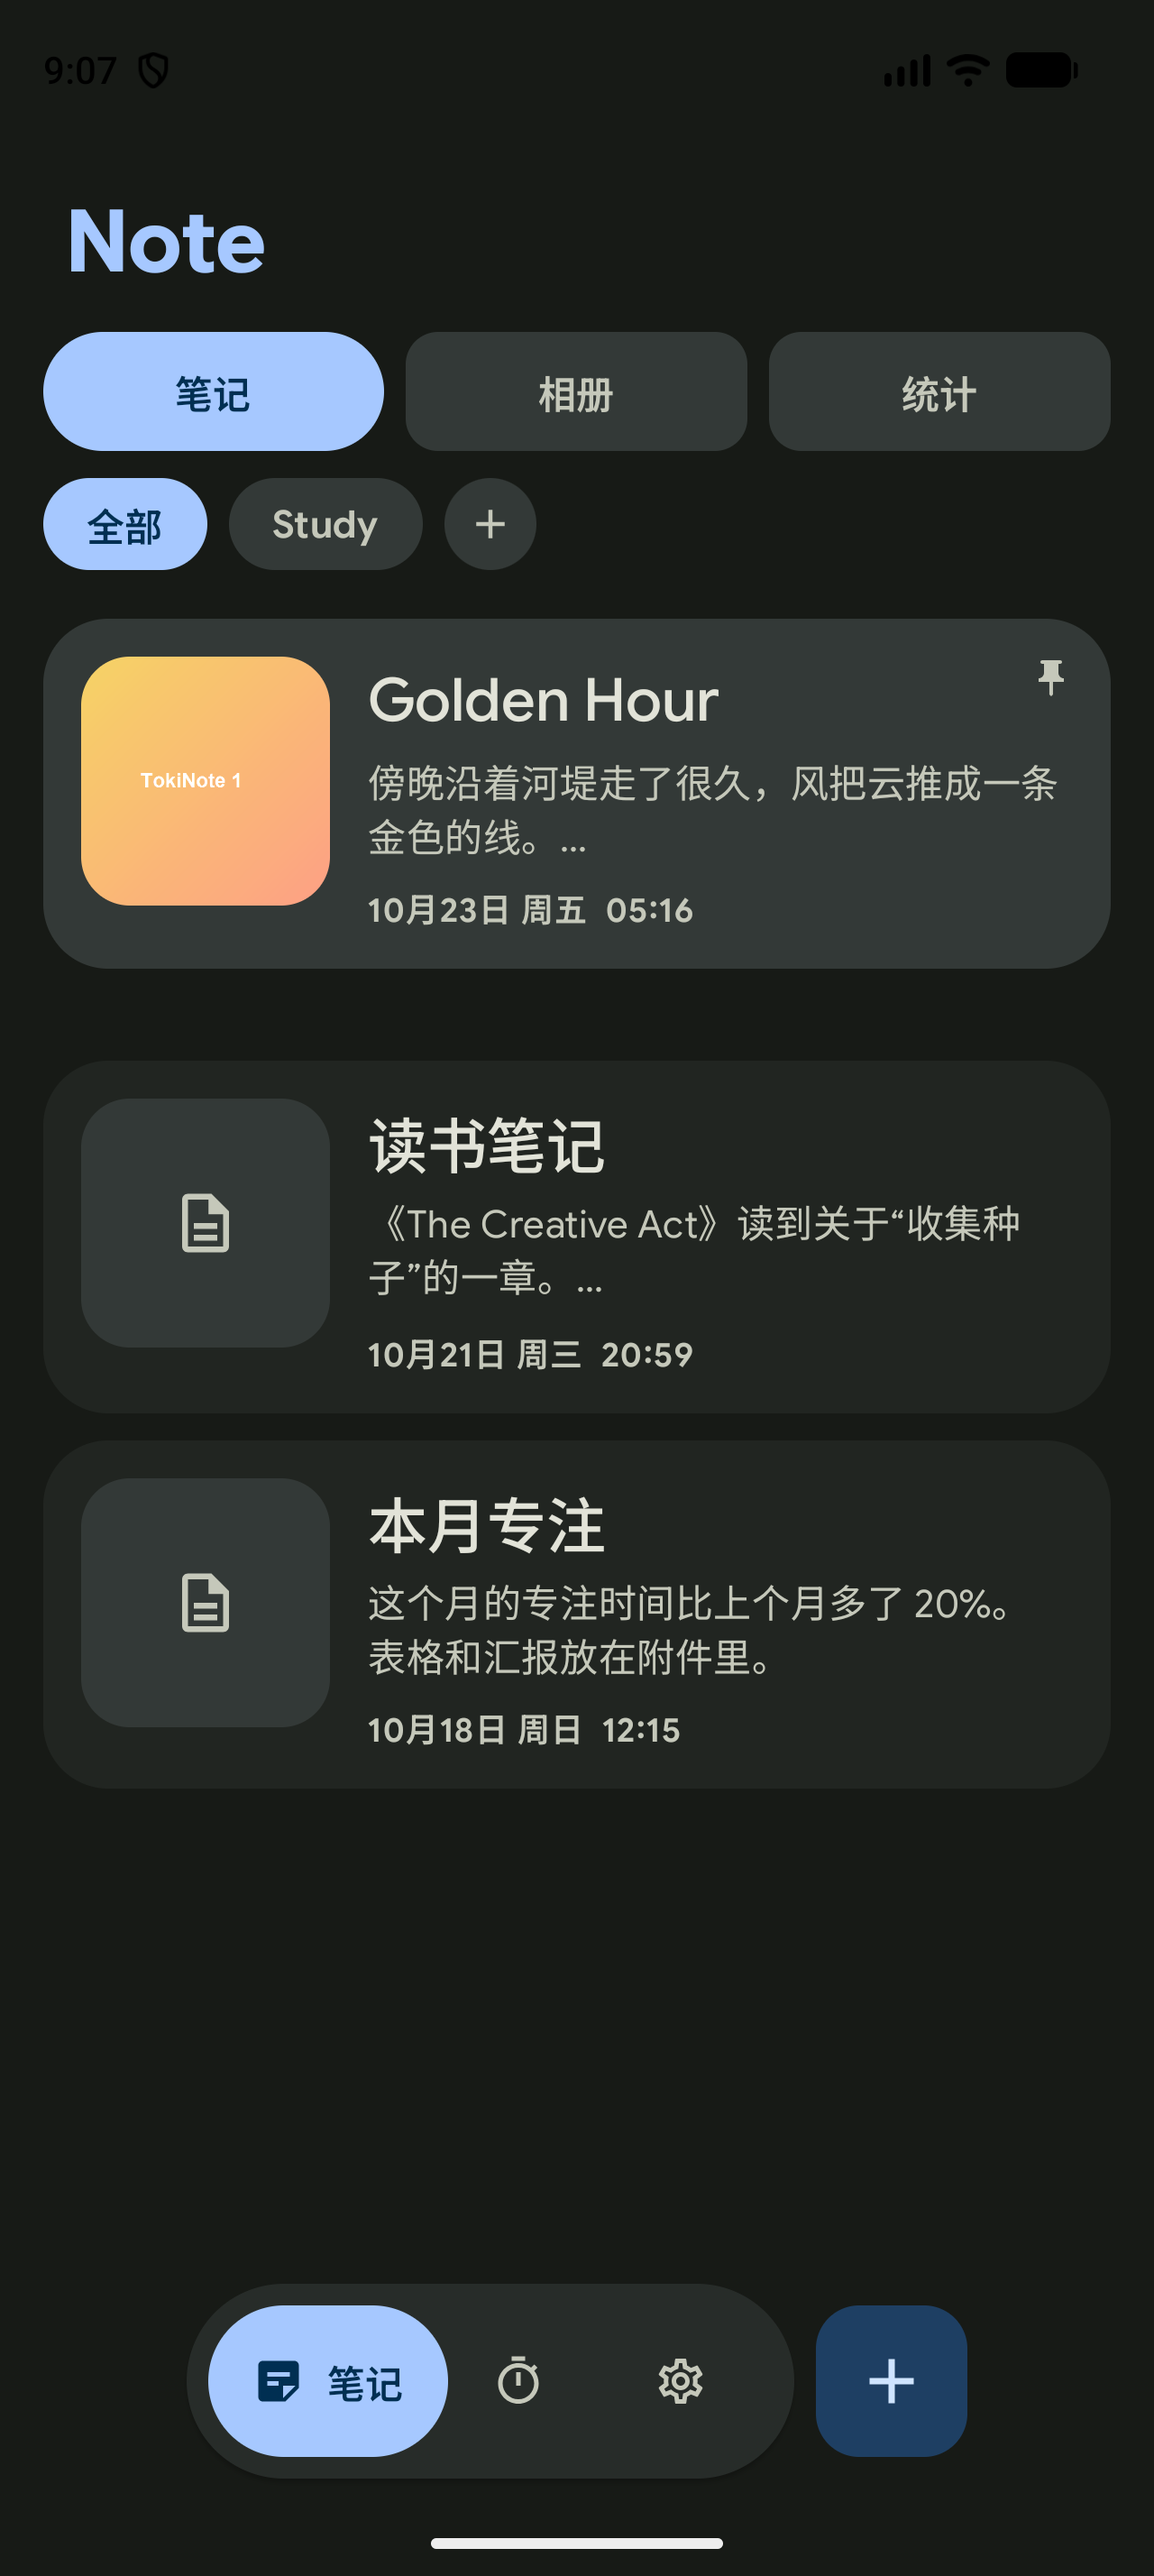
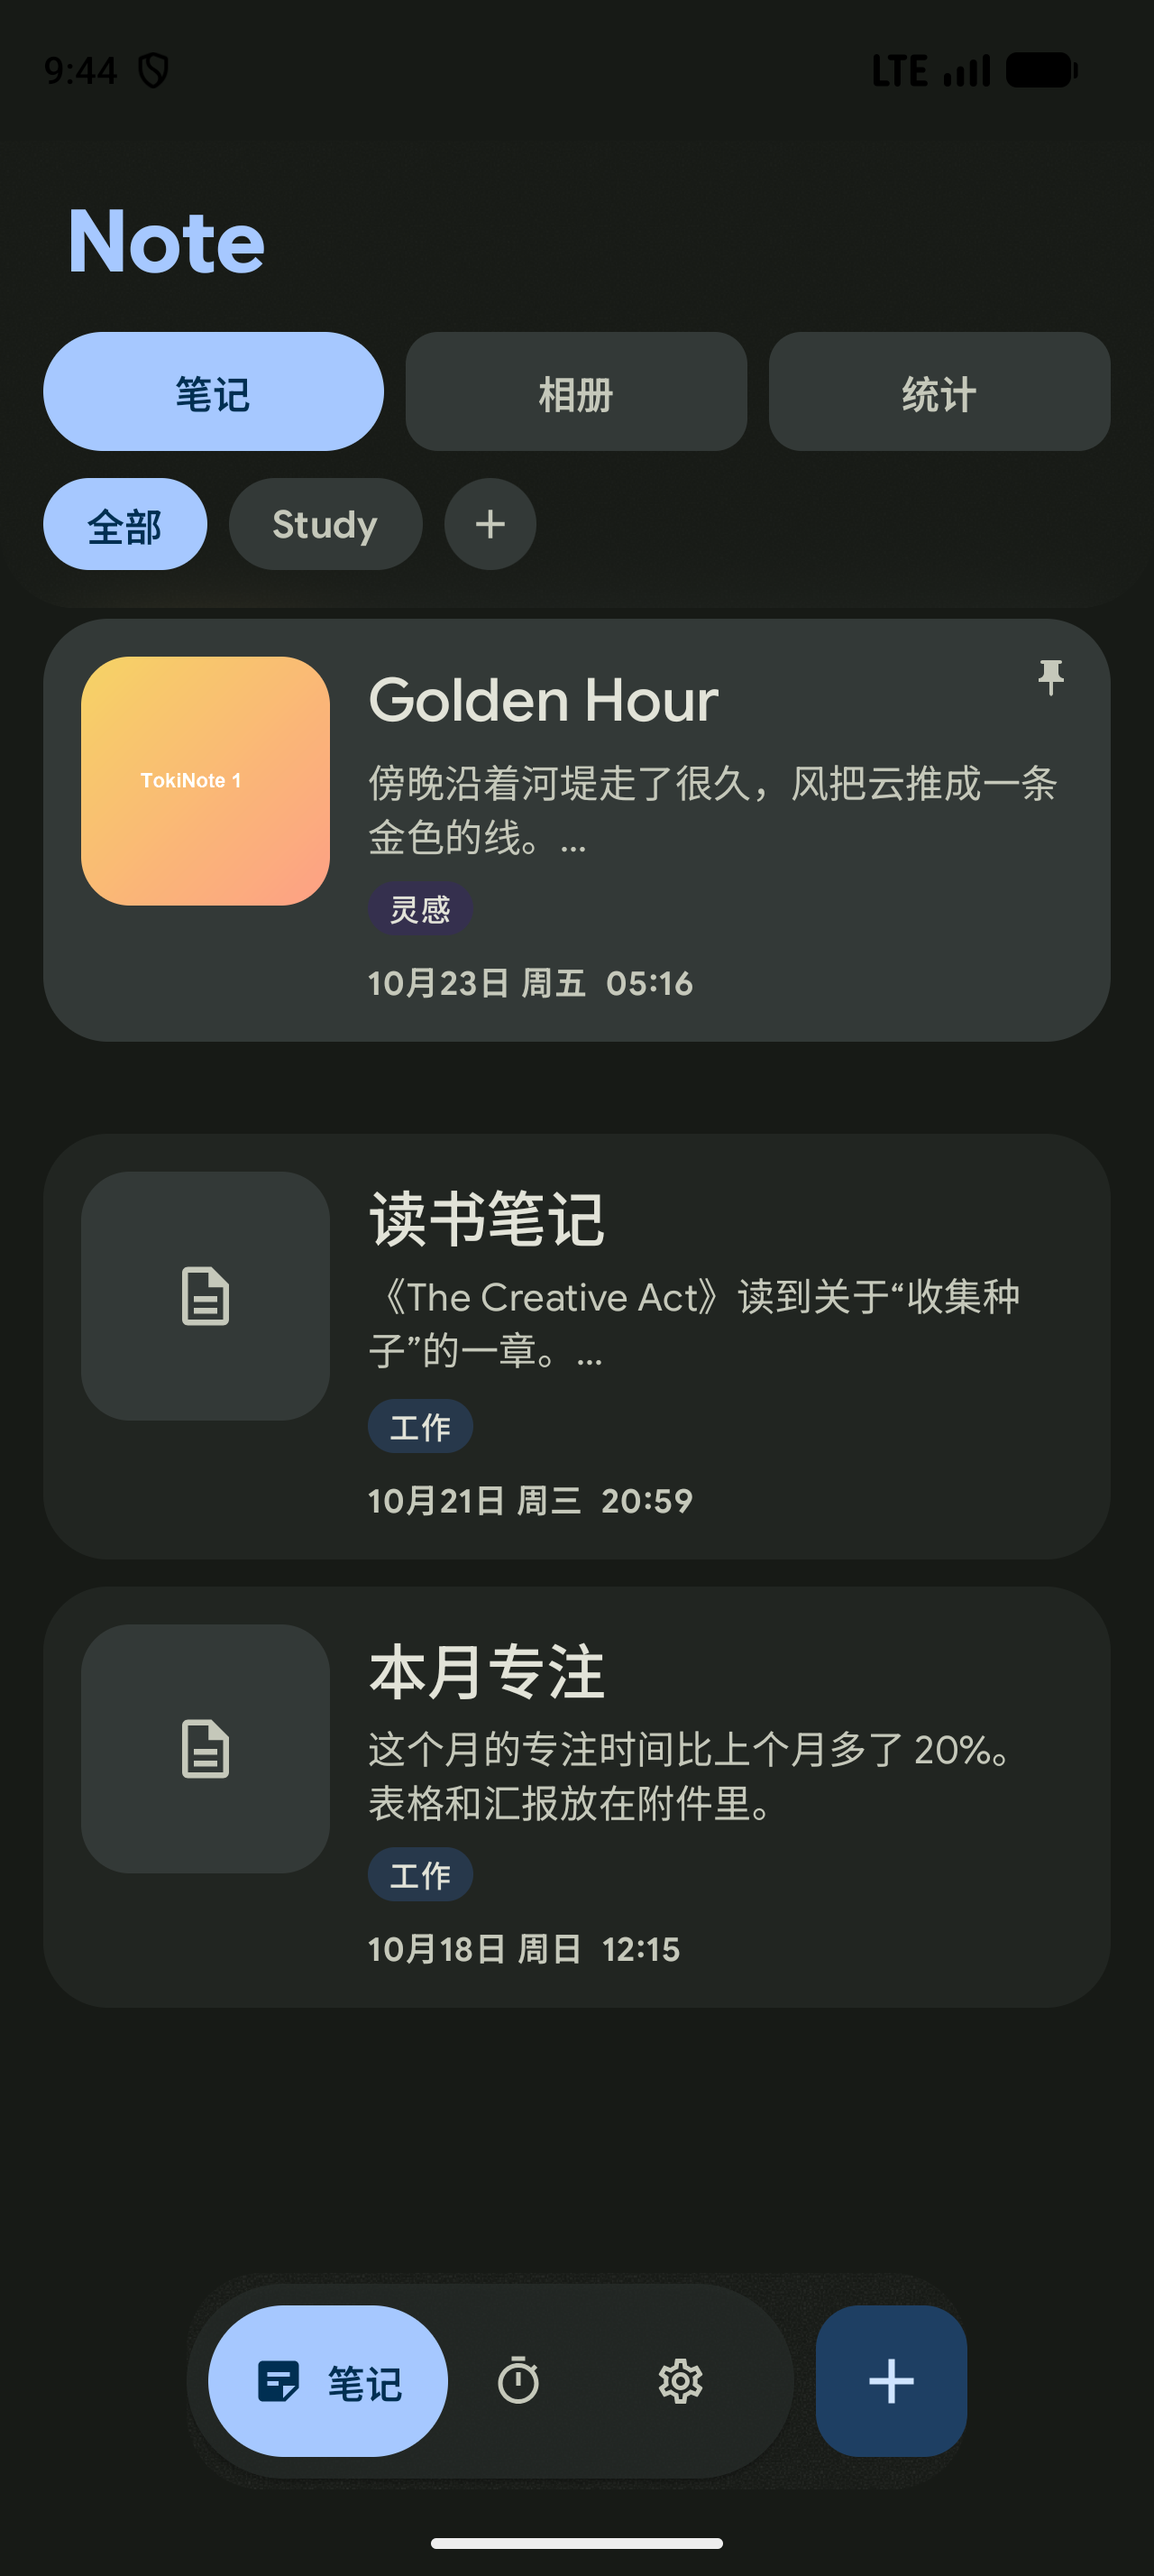
docs: update handoff, readme and screenshots for 0.2.8

diff --git a/HANDOFF.md b/HANDOFF.md
@@ -1,13 +1,13 @@
 # TokiNote — 交接文档（HANDOFF）
 
-> 最后更新：2026-10-24（0.2.7 已发布）
+> 最后更新：2026-10-24（0.2.8 待发）
 > 工作区：`D:\DSH\TokiNote\project`（git 仓库）；工具：`..\tools`；密钥：`..\keys`
 > 新会话先读本文件，再读 `docs/design-refs/`。
 
 ## 1. 仓库与发布
 
 - 仓库：https://github.com/ichiyotsu/TokiNote （public，main）
-- 最新发布：**0.2.7**（release keystore 签名，versionCode 5）；0.2.6、0.2.5、0.2.0、0.1.0 均在 Releases
+- 最新发布：**0.2.7**（release keystore 签名，versionCode 5）；**0.2.8 已构建待发**（versionCode 6，Haze 毛玻璃 + 标签底色）
 - 版本规则：正式版 tag `x.y.z`；beta tag `x.y.z-beta.1`（Pre-release）；**发版前必须与用户核对版本号 + 文案**
 - 包名固定 `com.tokinote.app`
 - **CI 与 Release 工作流仍是红的**：GitHub runner 上 Gradle 解析 AGP 插件异常（本地完全正常）。
@@ -25,13 +25,13 @@
 - 无系统 git/gh：`tools\mingit\cmd\git.exe`、`tools\gh\bin\gh.exe`
 - gh：`GH_CONFIG_DIR=tools\gh-config`、`LOCALAPPDATA=tools\gh-la`（current dir 是 project，路径写成 `..\tools\...`）
 - 构建：`$env:JAVA_HOME="D:\Application\Android Studio\jbr"; $env:ANDROID_HOME="C:\Users\tokisaki\AppData\Local\Android\Sdk"; .\gradlew.bat --offline assembleDebug`
-- 发版构建（0.2.7 验证）：
+- 发版构建（0.2.8 验证）：
   ```powershell
-  $env:VERSION_NAME='0.2.7'; $env:VERSION_CODE='5'
+  $env:VERSION_NAME='0.2.8'; $env:VERSION_CODE='6'
   $env:KEYSTORE_FILE='D:\DSH\TokiNote\keys\release.jks'
   $env:KEYSTORE_PASSWORD='…'; $env:KEY_ALIAS='tokinote'; $env:KEY_PASSWORD='…'
   .\gradlew.bat --offline assembleRelease -x lintVitalAnalyzeRelease -x lintVitalRelease
-  gh release create 0.2.7 app\build\outputs\apk\release\app-release.apk --title "TokiNote 0.2.7" --notes-file .github\release-notes\0.2.7.md --target main
+  gh release create 0.2.8 app\build\outputs\apk\release\app-release.apk --title "TokiNote 0.2.8" --notes-file .github\release-notes\0.2.8.md --target main
   ```
 - 模拟器 AVD `Pixel_10_Pro`（API 37）；**adb 手势注入对 Compose 不稳定**，长按/点击常无效，交互验证优先真机
 - github.com:443 时不时机翻；`git push` 失败可改用 GitHub Git Data API
@@ -40,13 +40,15 @@
 
 - Kotlin **2.4.21**、Compose **1.12.1**、Material3 **1.5.0-beta02**、AGP 9.4.1、Gradle 9.6
 - **minSdk 36（Android 16）**、compileSdk/targetSdk 37
-- 新增依赖 `com.google.android.material:material:1.13.0`（Monet）
+- 新增依赖 `com.google.android.material:material:1.13.0`（Monet）、`dev.chrisbanes.haze:haze|haze-blur:2.0.1`（背景模糊）
 - Compose 动态色：`dynamicLight/DarkColorScheme`（SDK 31+）；传统 View：`TokiNoteApplication` + `DynamicColors.applyToActivitiesIfAvailable`；`themes.xml` 继承 `Theme.Material3.DynamicColors.DayNight.NoActionBar`
 
 ## 5. 已完成的功能
 
 - 笔记：Journal 卡片（图左文右、置顶/日常分区）、长按预览（打开/归档/删除，0.2.7 起任意卡片可用）、笔记内清单、日期/时间/标签合并面板、M3 日期与时间选择器、编辑页顶栏（关闭/删除/对勾）+ 顶部大图
 - 首页分组：笔记页 Tab 下方「全部 / 分组 / +」；`+` 输入名称并多选笔记建组，长按分组可改名、增删笔记或删除；分组只存 noteId，不复制笔记，删除分组不影响笔记
+- 毛玻璃（0.2.8）：笔记页顶栏 + 分组条 + 悬浮底栏用 Haze 做真实背景模糊；列表/日历从顶栏下方滚过，`headerHeight` 用 px→dp 测量后作为 LazyColumn 的 `topInset`
+- 标签底色（0.2.8）：首页卡片显示彩色标签胶囊；编辑页标签面板选中项使用同一套 8 色 `LabelTints`，随深浅色和当前主色轻微调和
 - 相册：三列网格 + 全屏查看器（缩放、下载、定位、信息）
 - 专注：波浪环、主按钮长胶囊 + 圆形重置 + 窄药丸辅助键、垂直居中、长按/双击进入不定时正向计时（0.2.7 修复手势与 00:00 起计）
 - 统计（笔记页第三栏）：年/月/周切换；年无日历只列全年，月显示月历，周显示 7 天条；整页 LazyColumn 可滚动；点日期只看当天，点范围标题回到范围并取消高亮
@@ -58,14 +60,16 @@
 ## 6. 待办（下一会话优先）
 
 1. 真机验证长按预览、不定时专注（模拟器 2026-10-24 已通过：长按卡片出预览；长按计时数字进入 00:03 正向计时；双指/双击手势在 adb 注入下未能确认）
-2. 核对预设/动态色下的背景与标签底色（本轮已给预设 surface 混色）
-3. 未做：真模糊（顶栏/底栏 backdrop blur）、选中行独立字号
+2. 真机观察毛玻璃顶栏/底栏的滚动性能与浅色对比度（模拟器 0.2.8 已通过）
+3. 未做：选中行独立字号（需要富文本 span 存储，单独一轮）
+4. 可选：预设/动态色下的标签色调再微调（0.2.8 已做 8% 主色融合）
 
 ## 7. 已知坑
 
 - PowerShell 5.1 写中文易乱码：含中文的 Kotlin 字符串优先用 `write`/`edit` 工具或 `[char]0xXXXX` 拼接
 - 正则批量替换要确认没吞掉相邻 composable（本会话多次发生）
-- 离线构建依赖已缓存；新增依赖需联网构建一次
+- 离线构建依赖已缓存；新增依赖需联网构建一次（Haze 2.0.1 已缓存）
 - **C 盘（系统盘）容易满**：Gradle/Android 缓存都在 C，剩 0 字节时 `mergeExtDexRelease` 会报「磁盘空间不足」。清 `%LOCALAPPDATA%\Temp` 可立刻腾出空间
 - **release 构建必须 `-x lintVitalAnalyzeRelease -x lintVitalRelease`**：离线缓存里没有 `com.android.tools.lint:lint-gradle:32.4.1`，否则任务失败
+- **Haze 顶栏**：`onSizeChanged` 给的是 px，必须 `toDp()` 后再做 LazyColumn 的 top padding；直接 `.dp` 会把内容推下几百 dp。顶栏必须脱离布局流叠在列表上，否则没有内容可从背后滚过
 - 提交信息里的 7 位短哈希（如 `7b0e0c3`）是 git commit SHA，提交时自动生成，不需要手写备注

diff --git a/README.md b/README.md
@@ -18,9 +18,10 @@
 ## 笔记
 
 - 顶部左对齐「Note」，点按展开搜索；结果按「标题 / 正文」统计后再按日期分组
+- 顶栏与分组条使用毛玻璃：列表 / 日历 / 搜索结果从下方滚过时会真实模糊背后内容
 - 分类页签：**笔记 / 相册 / 统计**
 - 首页分组：Tab 下方「全部 / 分组 / +」，`+` 输入名称并多选笔记建组；长按分组可改名、增删笔记或删除
-- 日志：按天分组的卡片，含 emoji、标题、正文预览、图片拼贴与时间（可在外观设置里关闭时间）
+- 日志：按天分组的卡片，含 emoji、标题、正文预览、彩色标签胶囊、图片拼贴与时间（可在外观设置里关闭时间）
 - 长按卡片预览全文，可直接打开 / 归档 / 删除
 - 归档的笔记不进首页且不可编辑；回收站保留 14 天，可恢复或彻底删除
 - 相册：当月图片三列网格；点开进入全屏查看器
@@ -89,7 +90,7 @@ app/src/main/java/com/tokinote/app/
 
 - 视觉基准：[Tomato](https://github.com/nsh07/Tomato)（GPL-3.0）
 - 字体：[Google Sans Flex](https://fonts.google.com/specimen/Google+Sans+Flex)，随应用打包
-- 组件：Jetpack Compose 1.12.1 + Material 3 1.5.0
+- 组件：Jetpack Compose 1.12.1 + Material 3 1.5.0 + Haze 2.0.1（毛玻璃）
 
 ## 已知限制
 
